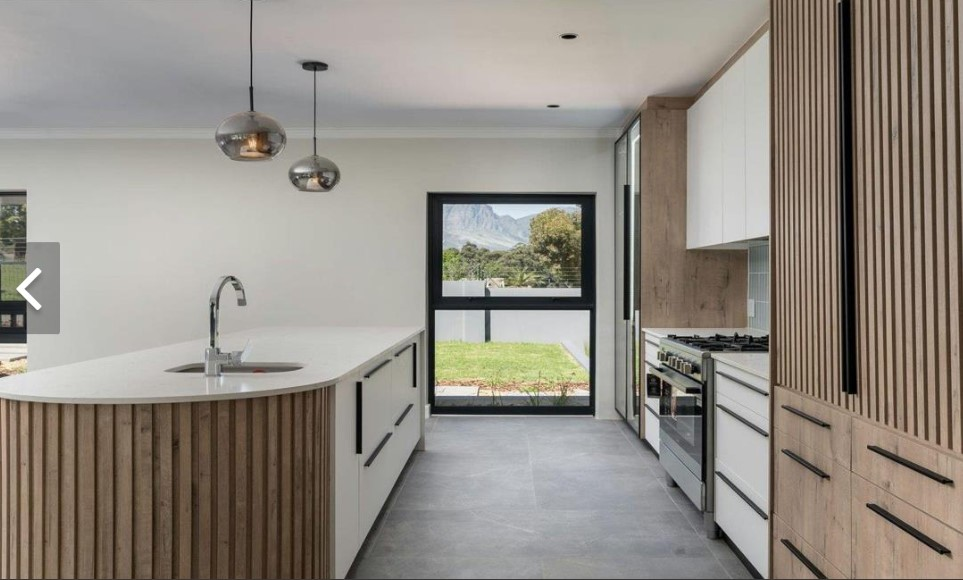
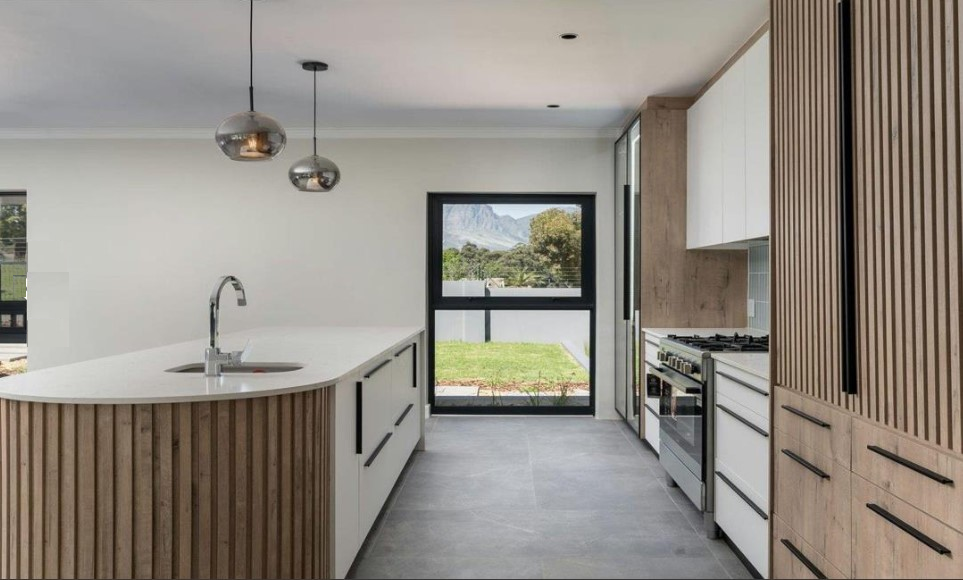
fixed gallery indicators and kitchen 1 photo

Changed region(s): [[0.0, 0.4034, 0.0623, 0.5897]]

diff --git a/css/style.css b/css/style.css
@@ -12448,6 +12448,7 @@ a {
   }
 }
 .testimonial-slide-center-wrap .tns-nav {
+  display:none;
   position: absolute;
   left: 50%;
   -webkit-transform: translateX(-50%);
@@ -12863,6 +12864,10 @@ a {
 
 .rem12 {
   height: 10rem;
+}
+
+.rem20 {
+  height: 19rem;
 }
 
 .single-portfolio > a:before {
